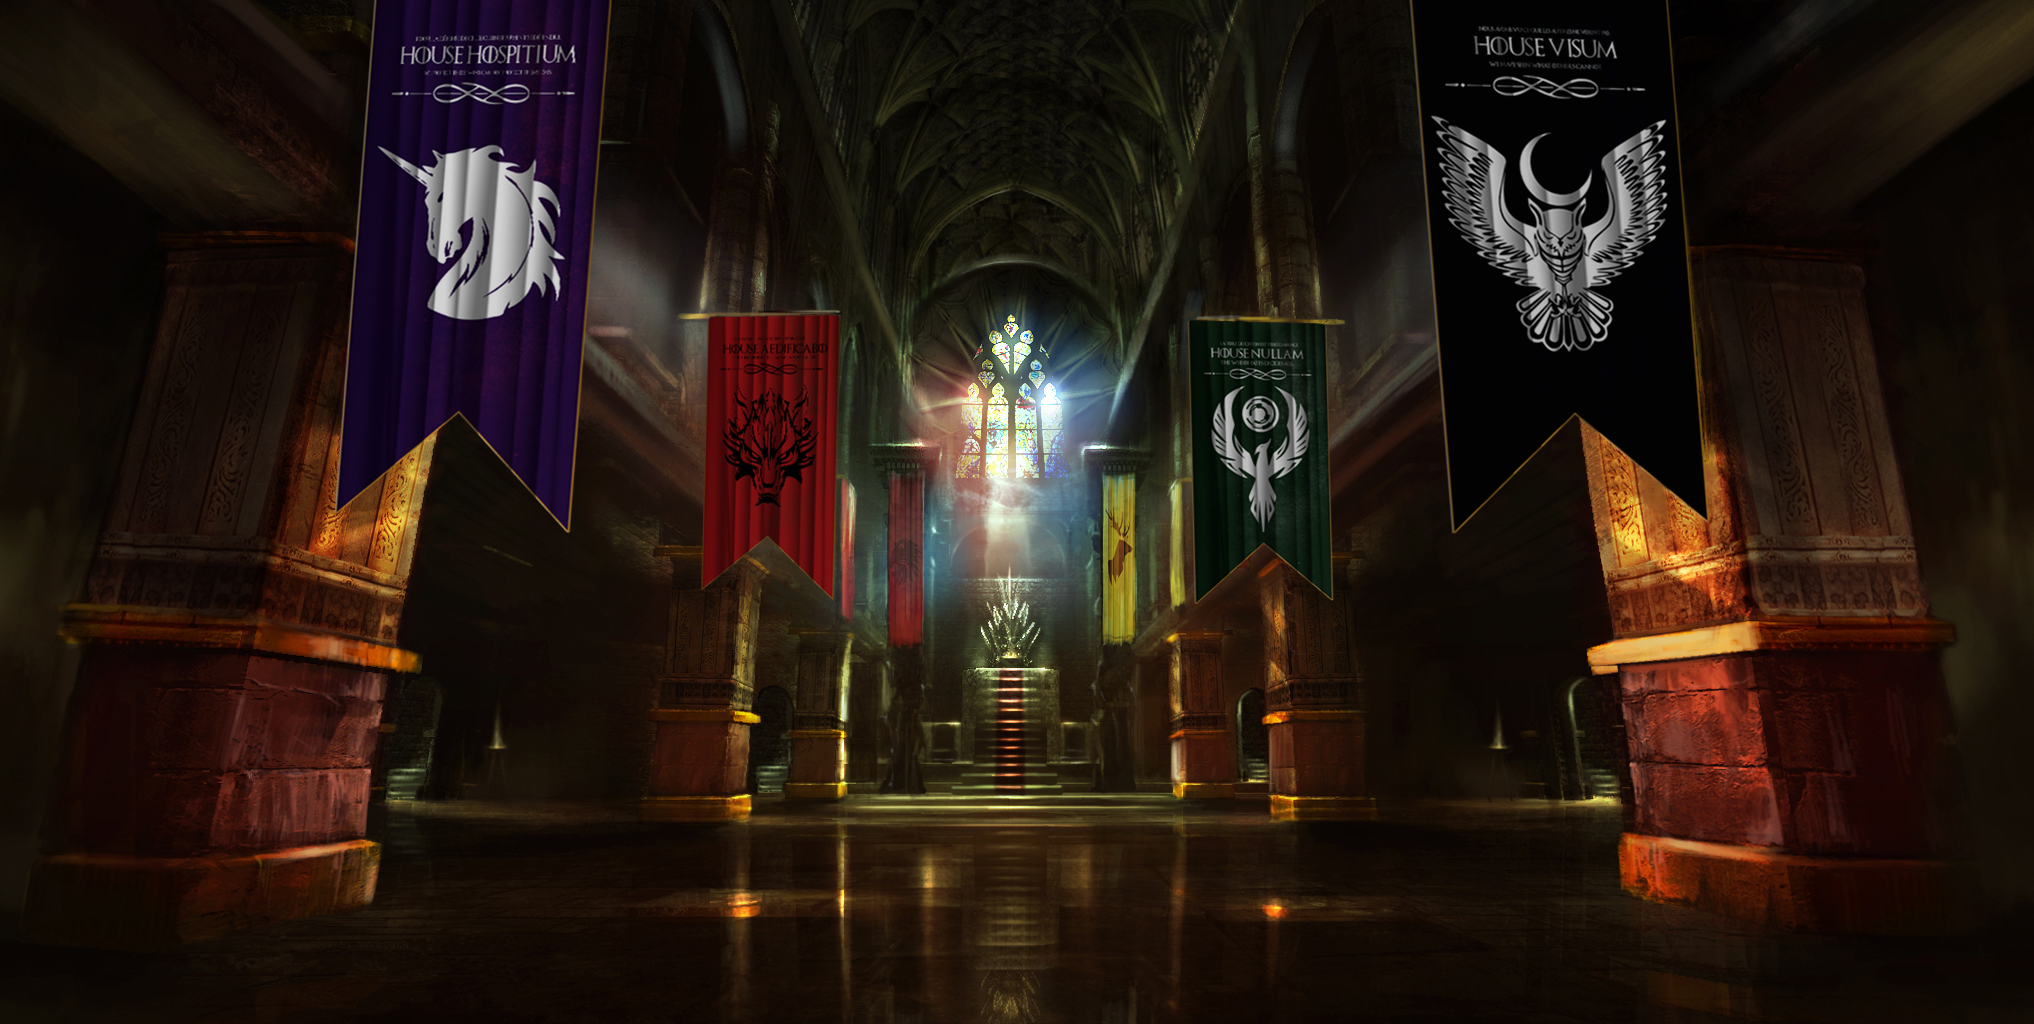
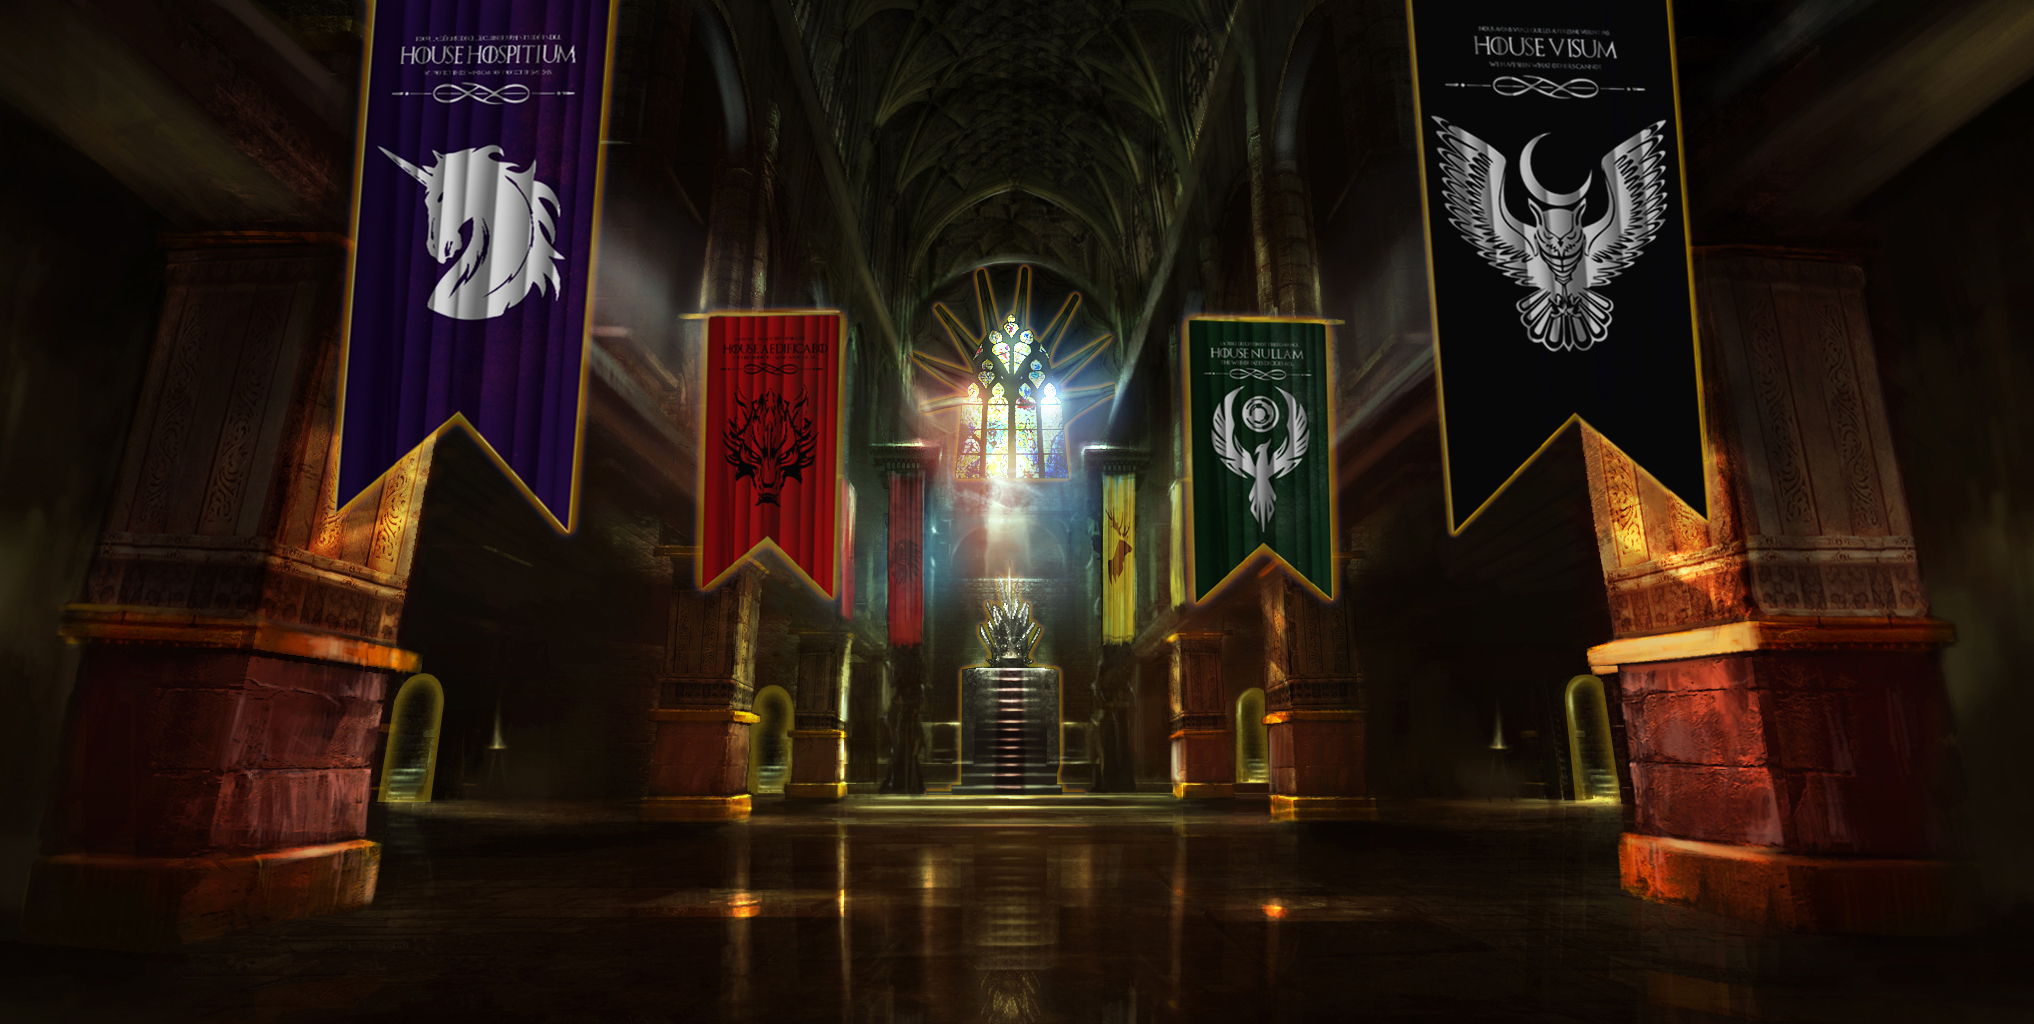
Obvious homepage is obvious

diff --git a/da2016/js/hoverImageMaps/rollover.js b/da2016/js/hoverImageMaps/rollover.js
@@ -39,6 +39,24 @@ $(document).ready(function($){
     $('img[usemap]').maphilight();
     $('map').imageMapResize();
 
+    $('#footer').qtip({
+        style: {
+            classes: 'qtip-dark qtip-shadow qtip-bootstrap',
+        },
+        position: {
+            adjust: { x: -1000, y: -200 }
+        },
+        content: 'Click on banners, doors and other highlighted objects to navigate.',
+        show: {
+            delay: 1500,
+            when: false, // Don't specify a show event
+            ready: true // Show the tooltip when ready
+        },
+        hide: {
+            delay: 4000
+        }
+    });
+
     $('area').qtip({
         style: {
             classes: 'qtip-dark qtip-shadow qtip-bootstrap',
@@ -47,25 +65,6 @@ $(document).ready(function($){
             target: 'mouse', // Track the mouse as the positioning target
             adjust: { x: 5, y: 5 } // Offset it slightly from under the mouse
         }
-    });
-
-    $(document).ready(function(){
-        $('#q').qtip({
-            style: {
-                classes: 'qtip-dark qtip-shadow qtip-bootstrap',
-            },
-            position: {
-                adjust: { x: -250, y: 5 }
-            },
-            content: 'This is the tooltip',
-            show: {
-                when: false, // Don't specify a show event
-                ready: true // Show the tooltip when ready
-            },
-            hide: {
-
-            }
-        })
     });
 });
 

diff --git a/includes2016/views/home/index.php b/includes2016/views/home/index.php
@@ -1,10 +1,11 @@
 <?php
 $link = URL . $this->language . '/';
-$journalism = $this->language === 'en' ? 'team' : 'equipe';
-$bios_build = $journalism . '/build';
-$bios_web = $journalism . '/web';
-$bios_video = $journalism . '/video';
-$bios_kiosk = $journalism . '/kiosk';
+$team = $this->language === 'en' ? 'team' : 'equipe';
+$journalism = 'journalism'.(($this->language === 'en') ? ' ' : 'e');
+$bios_build = $team . '/build';
+$bios_web = $team . '/web';
+$bios_video = $team . '/video';
+$bios_kiosk = $team . '/kiosk';
 $gallery = 'galler' . ($this->language = 'en' ? 'ie' : 'y');
 $tuto = 'tutori' . ($this->language = 'en' ? 'el' : 'al');
 ?>
@@ -22,7 +23,7 @@ $tuto = 'tutori' . ($this->language = 'en' ? 'el' : 'al');
 <map id="mymap" name="mymap">
     <area shape="poly" alt="Build Bios" title="Build Bios" coords="709,317,838,314,833,599,768,536,700,590,708,318" href="<?=$link.$bios_build?>" target="" />
 
-    <area shape="poly" alt="Web Bios" title="Web Bios" coords="1344,319,1195,315,1195,318,1186,320,1195,603,1263,542,1332,599,1325,325,1345,324,1345,319" href="<?=$link.$bios_web?>" target="" />
+    <area shape="poly" alt="Web Bios" title="Web Bios" coords="1327,322,1332,602,1264,544,1196,604,1188,318" href="<?=$link.$bios_web?>" target="" />
     <area shape="poly" alt="Video Bios" title="Video Bios" coords="1668,0,1708,523,1574,413,1452,533,1411,-1" href="<?=$link.$bios_video?>" target="" />
     <area shape="poly" alt="Kiosk Bios" title="Kiosk Bios" coords="569,533,457,410,336,512,375,-3,610,-1,571,498" href="<?=$link.$bios_kiosk?>" target="" />
 
@@ -31,8 +32,8 @@ $tuto = 'tutori' . ($this->language = 'en' ? 'el' : 'al');
     <area shape="poly" alt="Robot" title="Robot" coords="1568,703,1567,698,1569,691,1569,689,1570,687,1573,683,1575,681,1577,679,1582,678,1585,677,1589,678,1595,680,1598,682,1599,685,1601,690,1603,696,1621,801,1583,800,1569,705" href="<?=$link.'robot'?>" target="" />
     <area shape="poly" alt="Gallery" title="Gallery" coords="1267,716,1265,695,1264,691,1262,690,1259,689,1255,689,1252,689,1247,691,1241,695,1238,700,1236,706,1235,710,1235,717,1238,781,1268,783,1267,724,1262,725,1261,723,1261,721,1261,719,1261,717,1266,715" href="<?=$link.$gallery?>" target="" />
 
-    <area shape="poly" alt="Tutorial" title="Tutorial" coords="1011,313,1008,315,1007,317,1007,320,1008,322,1005,324,991,330,973,359,961,400,960,424,955,479,1071,478,1063,400,1049,353,1041,342,1029,328,1015,322,1016,321,1017,319,1017,317,1015,316,1012,314,1011,314" href="<?=$link.$tuto?>" target="" />
-    <area shape="poly" alt="Vanier" title="Vanier" id="q" coords="1173,793,1062,792,1062,784,1056,784,1056,775,1059,763,1059,722,1058,671,1045,667,1026,667,1028,665,1028,664,1031,663,1032,662,1032,660,1031,660,1030,661,1028,661,1028,660,1028,658,1026,656,1037,637,1038,635,1040,632,1040,629,1039,627,1025,652,1025,649,1024,645,1023,643,1026,638,1034,627,1035,622,1034,622,1031,622,1030,626,1024,632,1023,633,1027,622,1029,612,1028,607,1028,606,1027,605,1026,603,1026,602,1024,600,1018,616,1018,611,1018,608,1018,603,1015,600,1018,585,1019,580,1020,578,1019,577,1018,578,1016,581,1012,606,1011,601,1009,564,1008,600,1007,602,1005,593,1004,584,997,572,997,580,1002,602,1002,605,1000,609,997,608,994,605,992,605,992,608,992,609,987,602,987,602,986,604,986,605,992,618,993,626,992,626,990,621,988,620,988,621,987,622,987,625,990,635,994,645,990,642,982,626,980,626,980,630,986,645,996,656,992,654,992,656,992,659,992,662,987,658,986,660,989,661,992,663,992,666,992,668,975,668,975,668,968,669,967,669,962,670,960,723,961,759,961,775,961,785,951,784,950,793,847,793,847,795,1174,794,1173,793" href="<?=$link.'vanier'?>" target="" />
+    <area shape="poly" alt="Tutorial" title="Tutorial" coords="954.0000406901041,479.00000508626306,1070.000040690104,478.00000508626306,1064.000040690104,430.00000508626306,1068.000040690104,422.00000508626306,1078.000040690104,414.00000508626306,1089.000040690104,406.00000508626306,1103.000040690104,398.00000508626306,1116.000040690104,393.00000508626306,1115.000040690104,384.00000508626306,1100.000040690104,387.00000508626306,1063.000040690104,392.00000508626306,1062.000040690104,388.00000508626306,1061.000040690104,386.00000508626306,1113.000040690104,337.00000508626306,1110.000040690104,335.00000508626306,1052.000040690104,369.00000508626306,1049.000040690104,361.00000508626306,1078.000040690104,301.00000508626306,1079.000040690104,298.00000508626306,1079.000040690104,296.00000508626306,1078.000040690104,295.00000508626306,1076.000040690104,294.00000508626306,1075.000040690104,294.00000508626306,1039.000040690104,343.00000508626306,1034.000040690104,337.00000508626306,1034.000040690104,334.00000508626306,1032.000040690104,331.00000508626306,1030.000040690104,330.00000508626306,1028.000040690104,329.00000508626306,1025.000040690104,330.00000508626306,1028.000040690104,273.00000508626306,1028.000040690104,269.00000508626306,1027.000040690104,268.00000508626306,1026.000040690104,267.00000508626306,1025.000040690104,267.00000508626306,1022.0000406901041,267.00000508626306,1021.0000406901041,269.00000508626306,1015.0000406901041,316.00000508626306,1012.0000406901041,314.00000508626306,1011.0000406901041,314.00000508626306,1009.0000406901041,315.00000508626306,1007.0000406901041,317.00000508626306,1007.0000406901041,322.00000508626306,1005.0000406901041,323.00000508626306,1003.0000406901041,324.00000508626306,1004.0000406901041,330.00000508626306,999.0000406901041,331.00000508626306,984.0000406901041,271.00000508626306,982.0000406901041,269.00000508626306,980.0000406901041,269.00000508626306,977.0000406901041,272.00000508626306,977.0000406901041,277.00000508626306,980.0000406901041,294.00000508626306,988.0000406901041,335.00000508626306,978.0000406901041,346.00000508626306,939.0000406901041,303.00000508626306,935.0000406901041,307.00000508626306,949.0000406901041,327.00000508626306,974.0000406901041,374.00000508626306,914.0000406901041,352.00000508626306,912.0000406901041,358.00000508626306,966.0000406901041,392.00000508626306,965.0000406901041,396.00000508626306,958.0000406901041,395.00000508626306,921.0000406901041,405.00000508626306,920.0000406901041,407.00000508626306,921.0000406901041,413.00000508626306,929.0000406901041,412.00000508626306,951.0000406901041,407.00000508626306,961.0000406901041,405.00000508626306" href="<?=$link.$tuto?>" target="" />
+    <area shape="poly" alt="Vanier" title="Vanier" coords="1173,793,1062,792,1062,784,1056,784,1056,775,1059,763,1059,722,1058,671,1045,667,1026,667,1028,665,1028,664,1031,663,1032,662,1032,660,1031,660,1030,661,1028,661,1028,660,1028,658,1026,656,1037,637,1038,635,1040,632,1040,629,1039,627,1025,652,1025,649,1024,645,1023,643,1026,638,1034,627,1035,622,1034,622,1031,622,1030,626,1024,632,1023,633,1027,622,1029,612,1028,607,1028,606,1027,605,1026,603,1026,602,1024,600,1018,616,1018,611,1018,608,1018,603,1015,600,1018,585,1019,580,1020,578,1019,577,1018,578,1016,581,1012,606,1011,601,1009,564,1008,600,1007,602,1005,593,1004,584,997,572,997,580,1002,602,1002,605,1000,609,997,608,994,605,992,605,992,608,992,609,987,602,987,602,986,604,986,605,992,618,993,626,992,626,990,621,988,620,988,621,987,622,987,625,990,635,994,645,990,642,982,626,980,626,980,630,986,645,996,656,992,654,992,656,992,659,992,662,987,658,986,660,989,661,992,663,992,666,992,668,975,668,975,668,968,669,967,669,962,670,960,723,961,759,961,775,961,785,951,784,950,793,847,793,847,795,1174,794,1173,793" href="<?=$link.'vanier'?>" target="" />
 </map>
 
 <img src="<?=URL?>images/home/got.jpg" usemap="#mymap" width=100%/>
